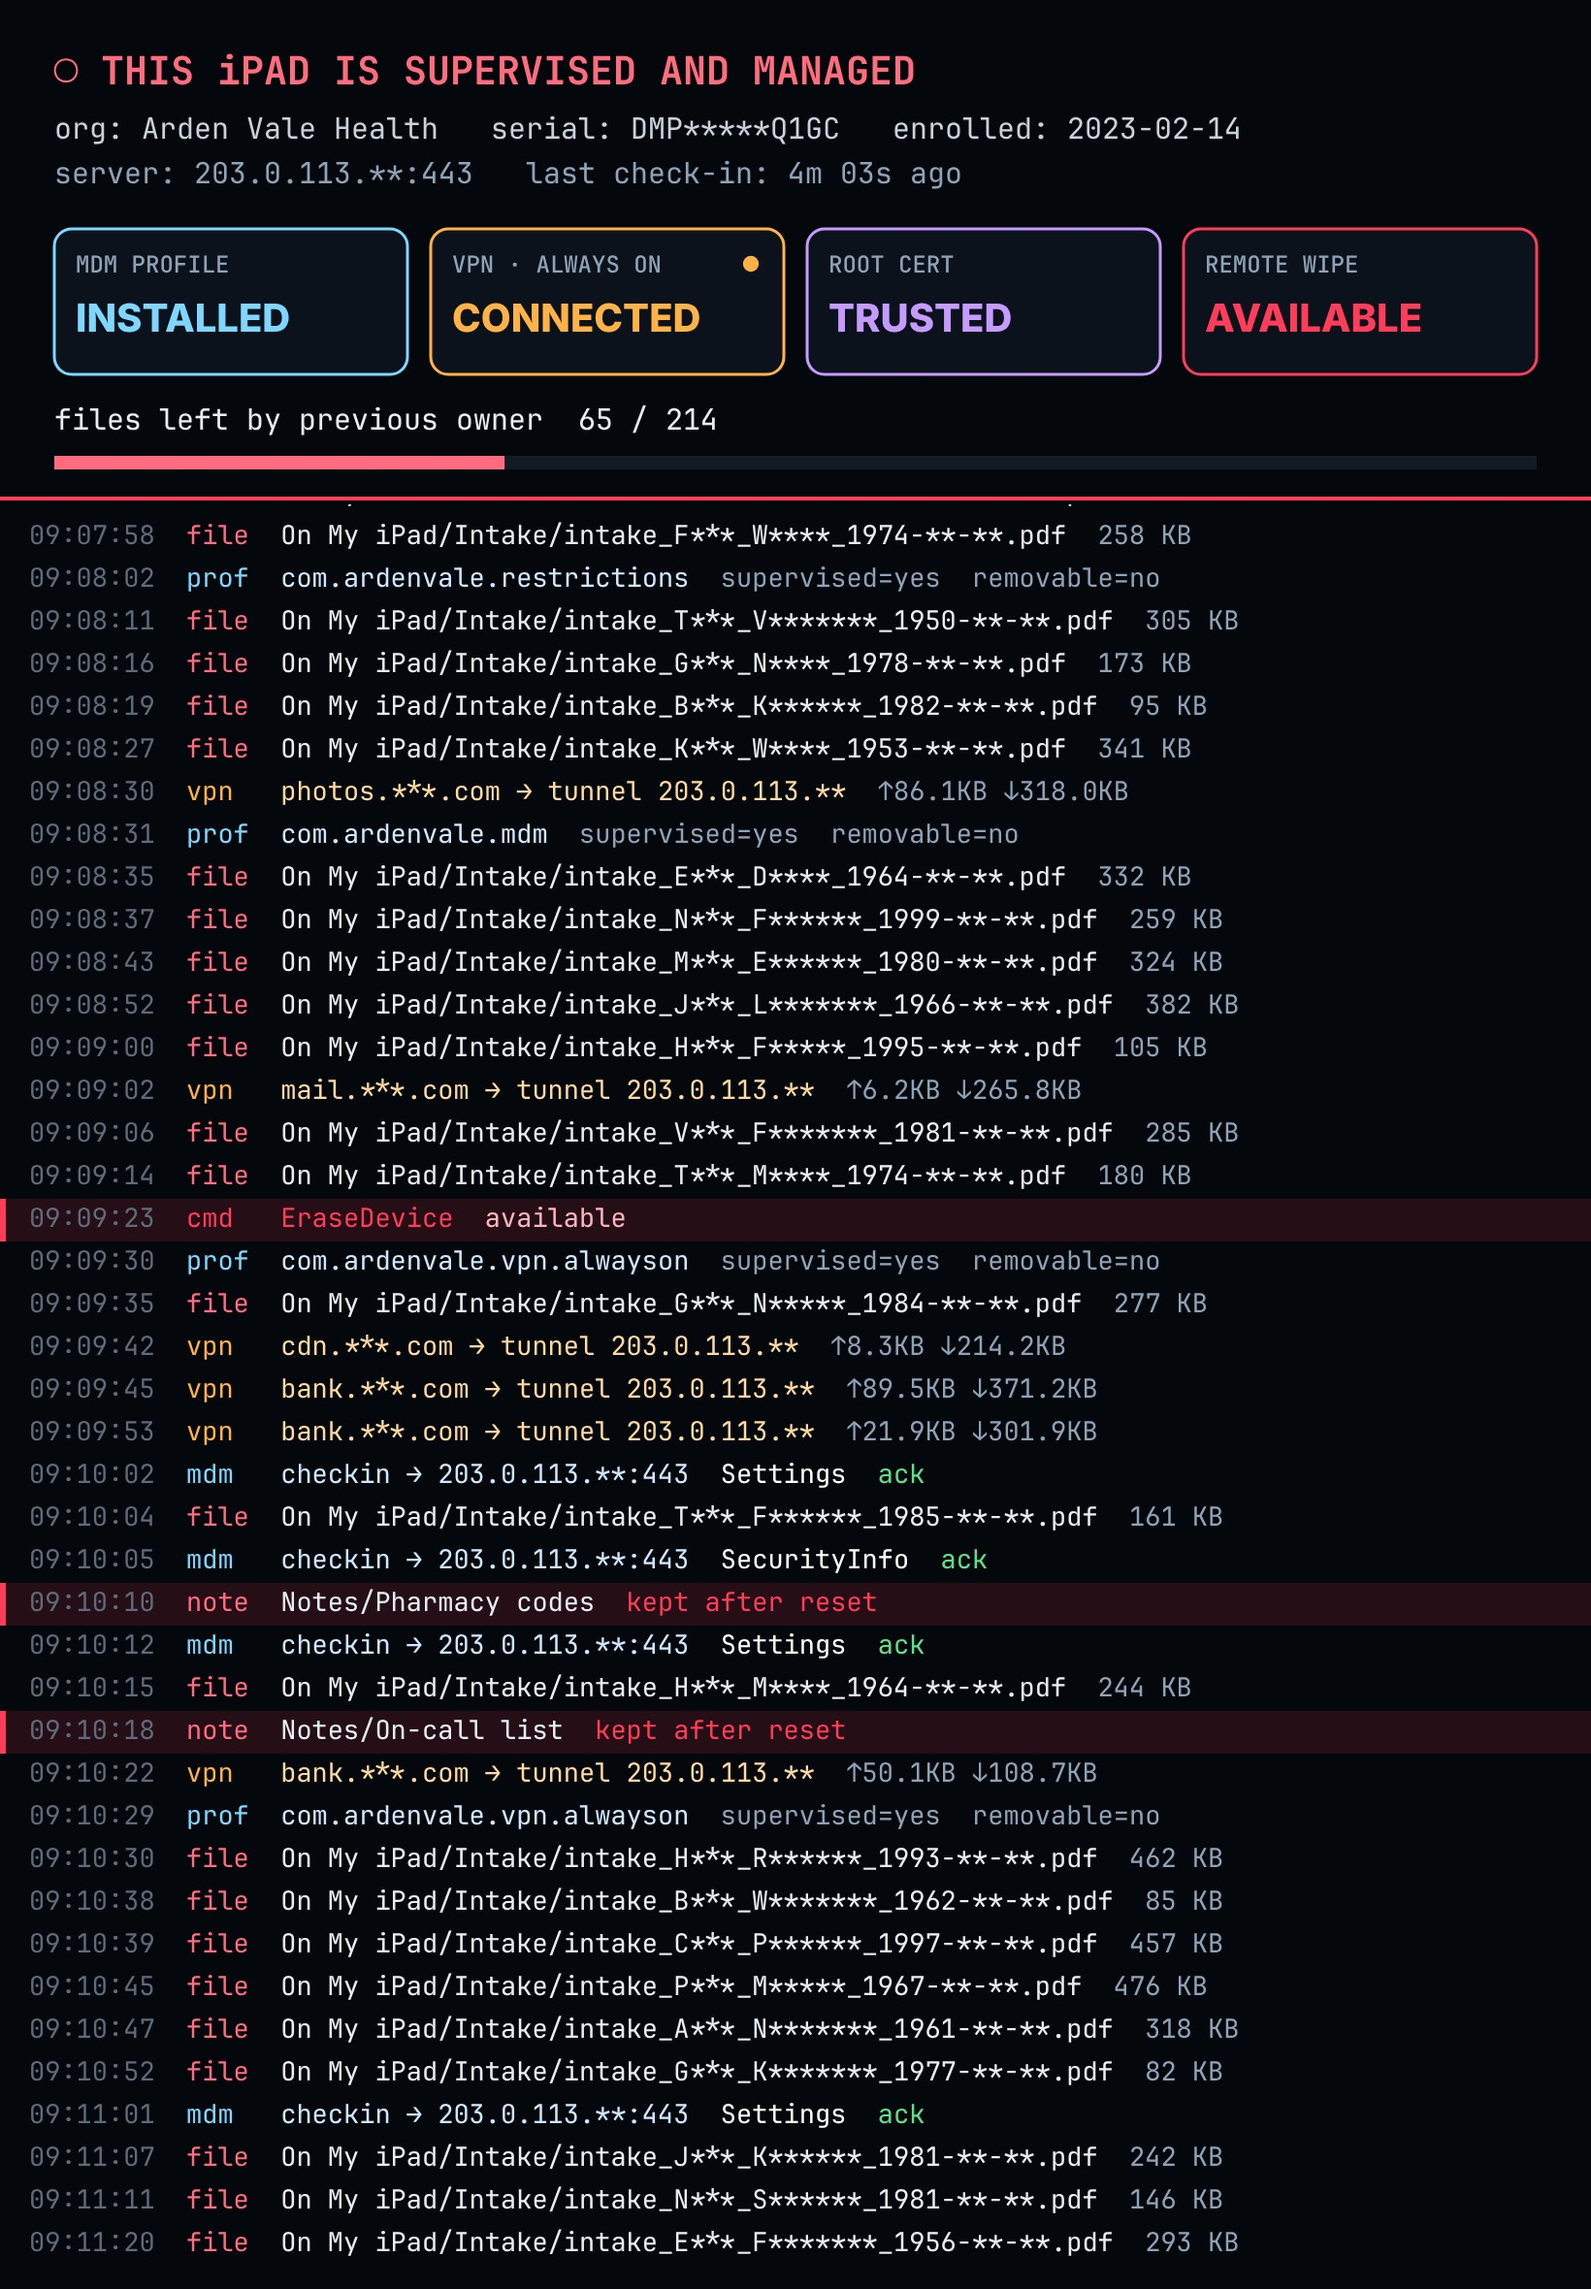
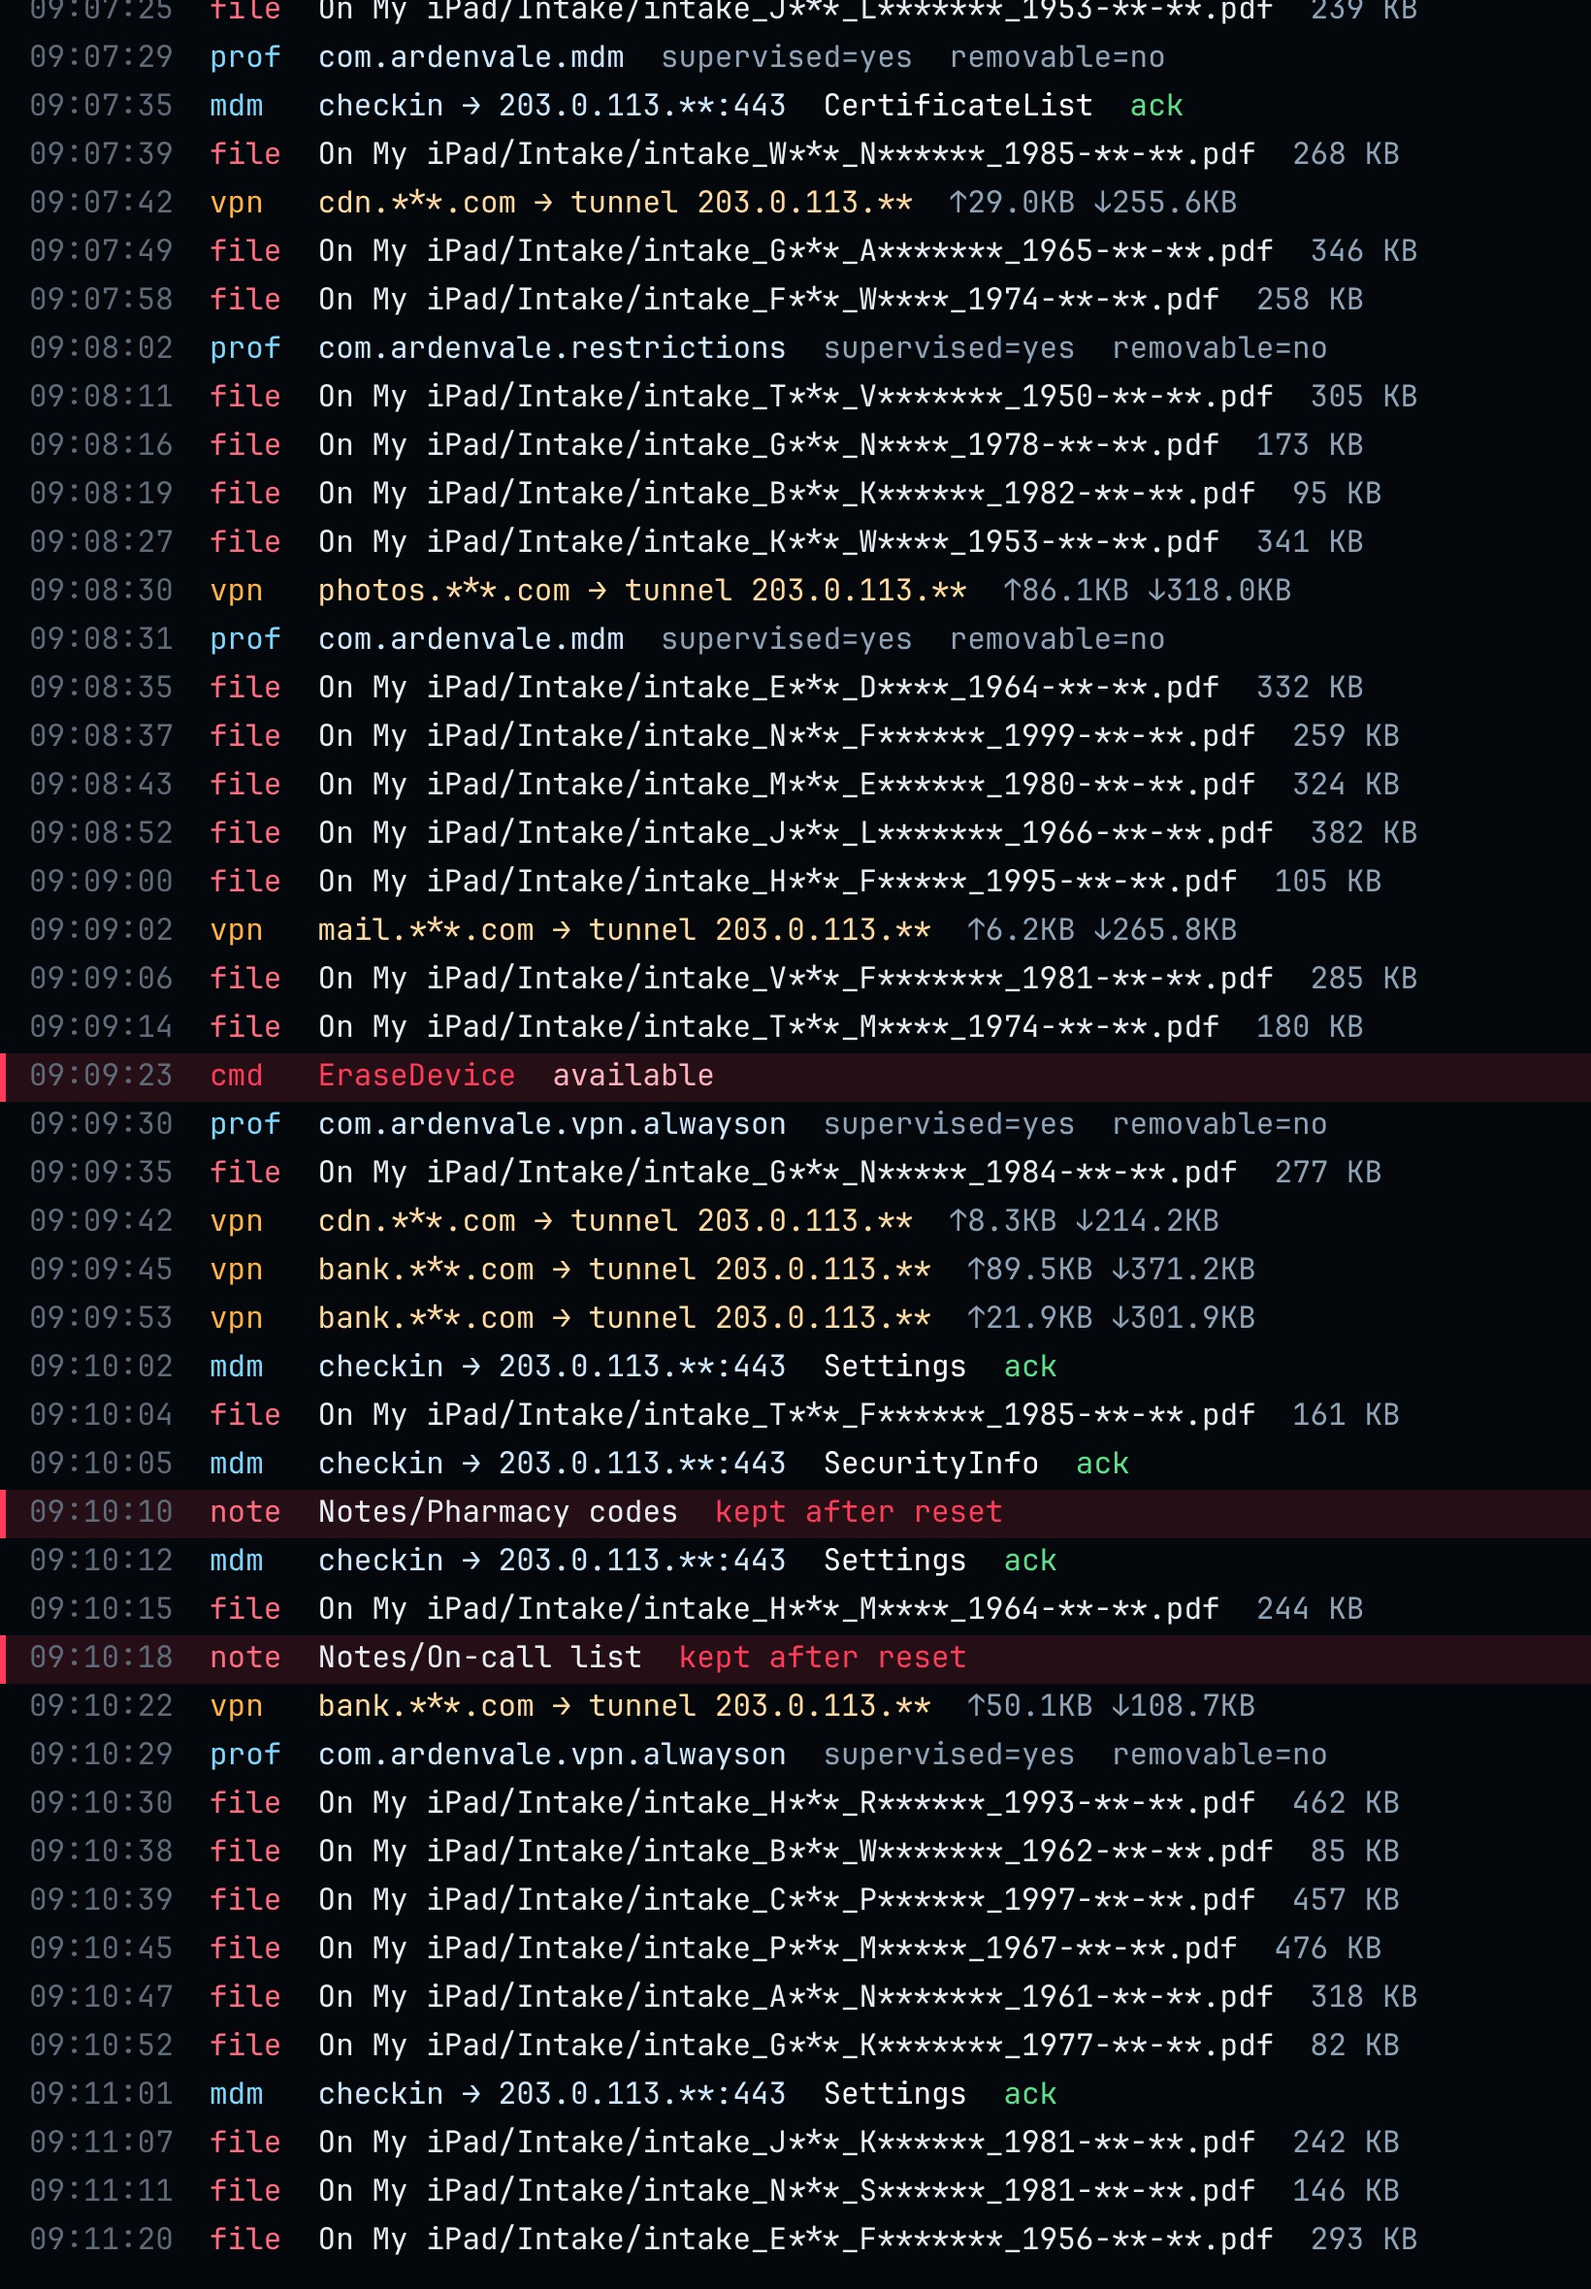
iPad MDM animation: log-only layout
Claude-Session: https://claude.ai/code/session_01NM4Jr7FW5n6NYfuvNkjQER

Changed region(s): [[0.0, 0.0, 1.0, 0.9898], [0.8085, 0.928, 0.9018, 0.9898], [0.964, 0.1237, 0.9951, 0.1547]]

diff --git a/animations/videos/ipad/mdm.js b/animations/videos/ipad/mdm.js
@@ -21,38 +21,20 @@
     const hosts = ['mail', 'bank', 'icloud', 'notes', 'photos', 'auth', 'cdn', 'push'];
     const items = emit(26 + LEAD, (t) => t < LEAD ? 22 : 6 + (t - LEAD) * 2.2 + (t - LEAD) * (t - LEAD) * 0.07, (i, t) => {
       const x = r(), s = ts() + '  ';
-      if (x < .40 && pdf < 214) { pdf++; const dob = `19${50 + R(50)}-**-**`; return { k: 'pdf', p: [[s, '#5f6b7a'], ['file  ', '#ff6b81'], [`On My iPad/Intake/intake_${nm()}_${dob}.pdf`, '#e9eef5'], [`  ${80 + R(400)} KB`, '#8fa3b8']], h: 44 }; }
-      if (x < .55) return { p: [[s, '#5f6b7a'], ['vpn   ', '#ffb347'], [`${pick(hosts)}.***.com → tunnel 203.0.113.**  `, '#ffd9a0'], [`↑${(R(900) / 10).toFixed(1)}KB ↓${(R(4000) / 10).toFixed(1)}KB`, '#8fa3b8']], h: 44 };
-      if (x < .68) return { p: [[s, '#5f6b7a'], ['mdm   ', '#7fd6ff'], ['checkin → 203.0.113.**:443  ', '#cfe8ff'], [pick(cmds), '#ffffff'], ['  ack', '#5ee08a']], h: 44 };
-      if (x < .74) return { p: [[s, '#5f6b7a'], ['cert  ', '#c59bff'], [`"${ORG} Root CA"  trusted=yes  user_approved=no`, '#e6d9ff']], h: 44, hl: '#c59bff' };
-      if (x < .80) return { p: [[s, '#5f6b7a'], ['note  ', '#ff6b81'], [`Notes/${pick(['Shift handover', 'Ward 3 meds', 'Pharmacy codes', 'Door codes', 'On-call list'])}  `, '#e9eef5'], ['kept after reset', '#ff3d5a']], h: 44, hl: '#ff3d5a' };
-      if (x < .86) return { p: [[s, '#5f6b7a'], ['cmd   ', '#ff3d5a'], [pick(['DeviceLock', 'EraseDevice', 'EnableLostMode']), '#ff3d5a'], ['  available', '#ffb3be']], h: 44, hl: '#ff3d5a' };
-      return { p: [[s, '#5f6b7a'], ['prof  ', '#7fd6ff'], [pick(['com.ardenvale.mdm', 'com.ardenvale.vpn.alwayson', 'com.ardenvale.wifi.ward', 'com.ardenvale.restrictions']), '#cfe8ff'], ['  supervised=yes  removable=no', '#8fa3b8']], h: 44 };
+      if (x < .40 && pdf < 214) { pdf++; const dob = `19${50 + R(50)}-**-**`; return { k: 'pdf', p: [[s, '#5f6b7a'], ['file  ', '#ff6b81'], [`On My iPad/Intake/intake_${nm()}_${dob}.pdf`, '#e9eef5'], [`  ${80 + R(400)} KB`, '#8fa3b8']], h: 50 }; }
+      if (x < .55) return { p: [[s, '#5f6b7a'], ['vpn   ', '#ffb347'], [`${pick(hosts)}.***.com → tunnel 203.0.113.**  `, '#ffd9a0'], [`↑${(R(900) / 10).toFixed(1)}KB ↓${(R(4000) / 10).toFixed(1)}KB`, '#8fa3b8']], h: 50 };
+      if (x < .68) return { p: [[s, '#5f6b7a'], ['mdm   ', '#7fd6ff'], ['checkin → 203.0.113.**:443  ', '#cfe8ff'], [pick(cmds), '#ffffff'], ['  ack', '#5ee08a']], h: 50 };
+      if (x < .74) return { p: [[s, '#5f6b7a'], ['cert  ', '#c59bff'], [`"${ORG} Root CA"  trusted=yes  user_approved=no`, '#e6d9ff']], h: 50, hl: '#c59bff' };
+      if (x < .80) return { p: [[s, '#5f6b7a'], ['note  ', '#ff6b81'], [`Notes/${pick(['Shift handover', 'Ward 3 meds', 'Pharmacy codes', 'Door codes', 'On-call list'])}  `, '#e9eef5'], ['kept after reset', '#ff3d5a']], h: 50, hl: '#ff3d5a' };
+      if (x < .86) return { p: [[s, '#5f6b7a'], ['cmd   ', '#ff3d5a'], [pick(['DeviceLock', 'EraseDevice', 'EnableLostMode']), '#ff3d5a'], ['  available', '#ffb3be']], h: 50, hl: '#ff3d5a' };
+      return { p: [[s, '#5f6b7a'], ['prof  ', '#7fd6ff'], [pick(['com.ardenvale.mdm', 'com.ardenvale.vpn.alwayson', 'com.ardenvale.wifi.ward', 'com.ardenvale.restrictions']), '#cfe8ff'], ['  supervised=yes  removable=no', '#8fa3b8']], h: 50 };
     });
     return { items };
   }, draw(ctx, t, s) {
     ctx.fillStyle = '#04070b'; ctx.fillRect(0, 0, W, H); ctx.textBaseline = 'top';
-    const heat = Math.min(1, t / 21);
-    // header
-    ctx.font = `700 40px ${MONO}`; ctx.fillStyle = `rgb(255,${Math.round(110 - 50 * heat)},${Math.round(130 - 60 * heat)})`;
-    ctx.fillText(`${Math.floor(t * 2) % 2 ? '●' : '○'} THIS iPAD IS SUPERVISED AND MANAGED`, 56, 56);
-    ctx.font = `30px ${MONO}`; ctx.fillStyle = '#c9d2dc'; ctx.fillText(`org: ${ORG}   serial: DMP*****Q1GC   enrolled: 2023-02-14`, 56, 120);
-    const last = Math.max(0, 252 - Math.floor(t * 9.6)); // check-in countdown to "now"
-    ctx.fillStyle = '#8fa3b8'; ctx.fillText(`server: 203.0.113.**:443   last check-in: ${last > 0 ? `${Math.floor(last / 60)}m ${pad(last % 60)}s ago` : 'just now'}`, 56, 166);
-    // status cards
-    const cards = [['MDM PROFILE', 'INSTALLED', '#7fd6ff'], ['VPN · ALWAYS ON', 'CONNECTED', '#ffb347'], ['ROOT CERT', 'TRUSTED', '#c59bff'], ['REMOTE WIPE', 'AVAILABLE', '#ff3d5a']];
-    const cw = (W - 112 - 3 * 24) / 4;
-    cards.forEach(([a, b, c], i) => { const x = 56 + i * (cw + 24), y = 236; ctx.fillStyle = '#0b121b'; rr(ctx, x, y, cw, 150, 18); ctx.fill(); ctx.strokeStyle = c; ctx.lineWidth = 3; rr(ctx, x, y, cw, 150, 18); ctx.stroke();
-      ctx.fillStyle = '#8fa3b8'; ctx.font = `600 24px ${MONO}`; ctx.fillText(a, x + 22, y + 26); ctx.fillStyle = c; ctx.font = `800 40px ${SANS}`; ctx.fillText(b, x + 22, y + 74);
-      if (i === 1) { ctx.beginPath(); ctx.arc(x + cw - 34, y + 36, 9 + 3 * Math.sin(t * 6), 0, 7); ctx.fill(); } });
-    // counters
-    const files = Math.min(214, s.items.filter((it) => it.k === 'pdf' && it.t <= t + LEAD).length);
-    ctx.font = `30px ${MONO}`; ctx.fillStyle = '#e9eef5'; ctx.fillText(`files left by previous owner  ${files} / 214`, 56, 420);
-    ctx.fillStyle = '#121a24'; ctx.fillRect(56, 470, W - 112, 14); ctx.fillStyle = '#ff6b81'; ctx.fillRect(56, 470, (W - 112) * files / 214, 14);
-    ctx.fillStyle = '#ff3d5a'; ctx.fillRect(0, 512, W, 4);
     // log
-    ctx.save(); ctx.beginPath(); ctx.rect(0, 520, W, H - 520); ctx.clip(); ctx.font = `27px ${MONO}`;
-    stream(ctx, s.items, t + LEAD, H - 24, 520, (it, y) => { if (it.hl) { ctx.fillStyle = it.hl + '22'; ctx.fillRect(0, y, W, 44); ctx.fillStyle = it.hl; ctx.fillRect(0, y, 6, 44); } drawParts(ctx, it.p, 30, y + 8); });
+    ctx.save(); ctx.font = `31px ${MONO}`;
+    stream(ctx, s.items, t + LEAD, H - 24, 0, (it, y) => { if (it.hl) { ctx.fillStyle = it.hl + '22'; ctx.fillRect(0, y, W, 50); ctx.fillStyle = it.hl; ctx.fillRect(0, y, 6, 50); } drawParts(ctx, it.p, 30, y + 9); });
     ctx.restore();
     // finale: Remote Management setup screen
     if (t > 22.4) { const a = Math.min(1, (t - 22.4) / .5); ctx.globalAlpha = a; ctx.fillStyle = '#ffffff'; ctx.fillRect(0, 0, W, H);
